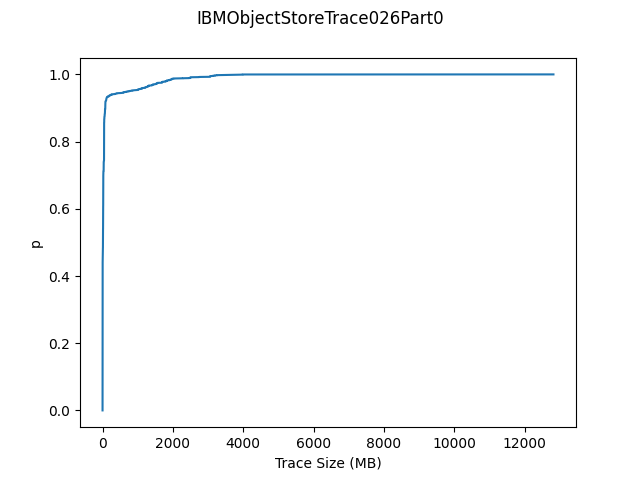
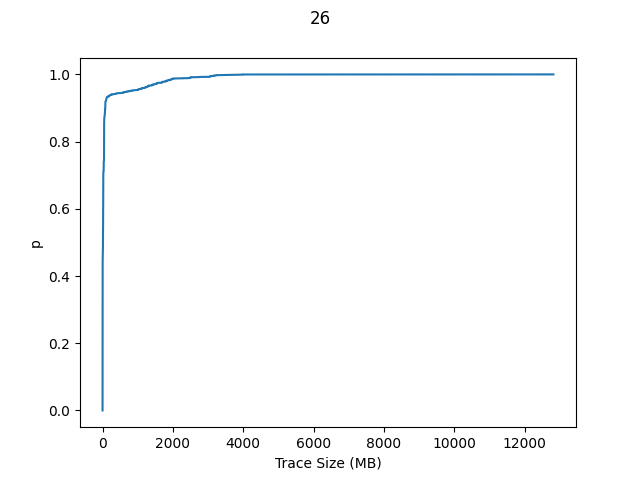
update tracename

Changed region(s): [[0.3125, 0.0, 0.6875, 0.0625]]

diff --git a/file.py b/file.py
@@ -16,9 +16,9 @@ def printlog(message):
         logFile.close()
 
 def main():
-    print("print_version: {}".format(sys.version))
     for tracename in os.listdir("/home/shiyue/Downloads/traces"):
 
+        traceShortName = tracename[20:22]
         path = os.path.join("/home/shiyue/Downloads/traces",tracename)
         objectCount = 10000
 
@@ -53,27 +53,29 @@ def main():
                 headcount+=1
                 headtotalSize+=fileSize
             totalSize +=fileSize
-            sizelist.append(fileSize)
+
+            newFileSize = fileSize/1024/1024 #convert file_size from B to MB
+            sizelist.append(newFileSize)
         
         #CDF
         data = np.sort(sizelist)
         p = 1. * np.arange(len(data)) / float(len(data) - 1)
-        print("The CDF result is-",p)
+        # print("The CDF result is-",p)
         fig = plt.figure()
-        fig.suptitle(tracename)
+        fig.suptitle(traceShortName)
         ax2 = fig.add_subplot(111)
-        ax2.plot(data/1024/1024, p)
+        ax2.plot(data, p)
         ax2.set_xlabel('Trace Size (MB)')
         ax2.set_ylabel('p')
         # plt.show()
         plt.savefig(tracename)
 
         print("")
-        print("Trace: {} Length: {} Total trace size : {} GB".format(tracename,objectCount,float(totalSize/1024/1024/1024)))
-        print("Trace: {} GET number: {} GET size: {} GB".format(tracename,getcount,float(gettotalSize/1024/1024/1024)))
-        print("Trace: {} PUT number: {} PUT size: {} GB".format(tracename,putcount+headcount,float((puttotalSize+ headtotalSize)/1024/1024/1024)))
+        print("Trace: {} Length: {} Total trace size : {} GB".format(traceShortName,objectCount,float(totalSize/1024/1024/1024)))
+        print("Trace: {} GET number: {} GET size: {} GB".format(traceShortName,getcount,float(gettotalSize/1024/1024/1024)))
+        print("Trace: {} PUT number: {} PUT size: {} GB".format(traceShortName,putcount+headcount,float((puttotalSize+ headtotalSize)/1024/1024/1024)))
         print("Trace Mean Value: {} MB".format(float(totalSize/objectCount/1024/2014)))
-        print("Trace Standard Deviation: {} MB".format(float(statistics.stdev(sizelist)/1024/2014)))
+        print("Trace Standard Deviation: {} MB".format(float(statistics.stdev(sizelist))))
         print("")
 
         printlog("Trace: {} Length: {} Total trace size : {} GB".format(tracename,objectCount,float(totalSize/1024/1024/1024)))

diff --git a/test.py b/test.py
@@ -1,0 +1,4 @@
+list = [8,3,746,58,73,46,58,73,24,65]
+new_list = list/4
+print(new_list)
+print("")
